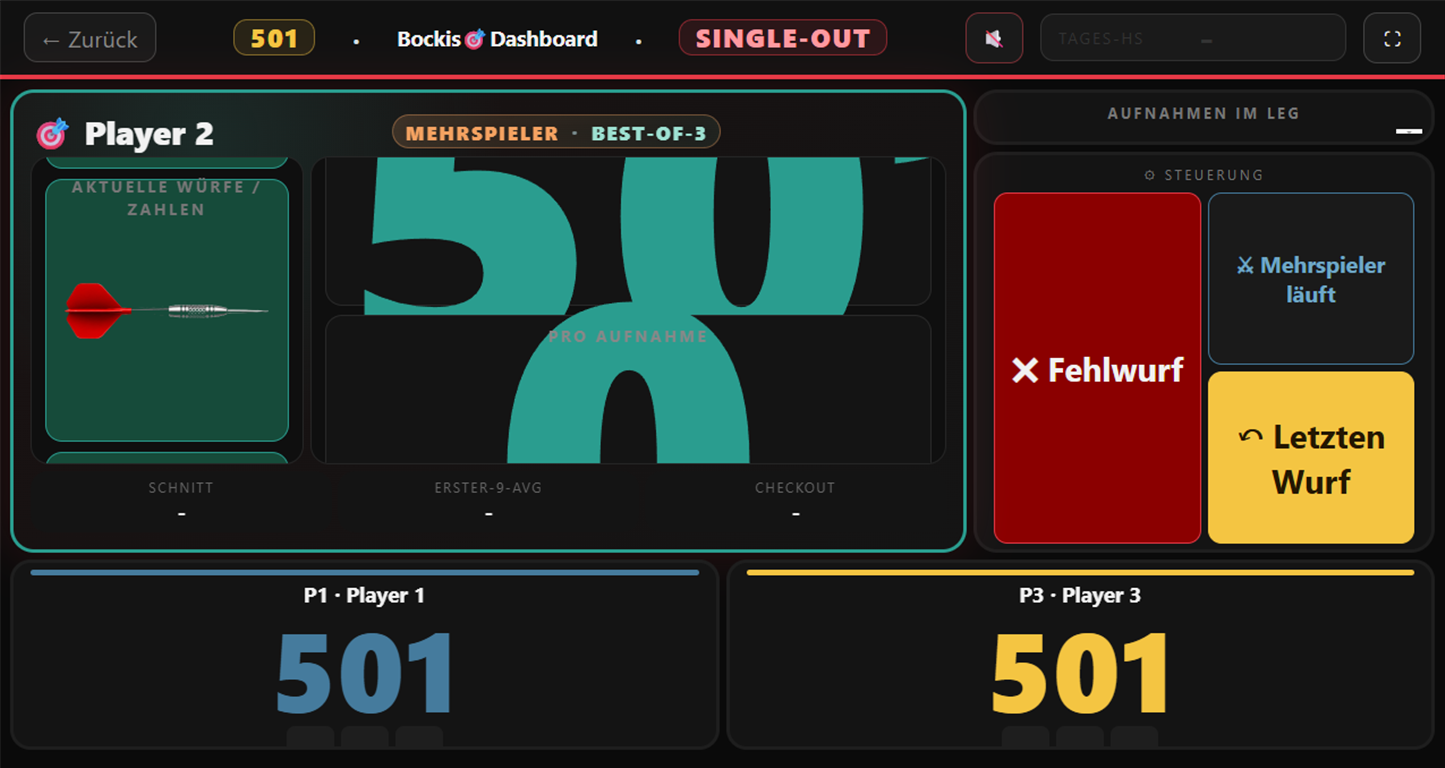
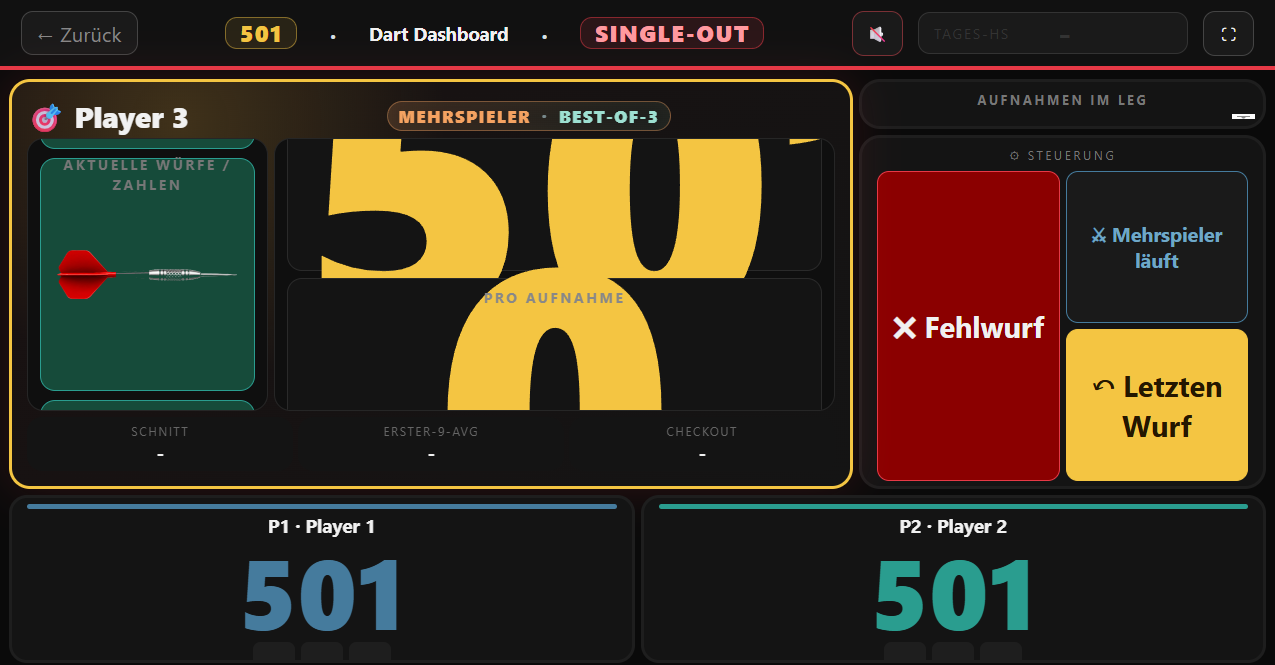
fix: aktualisiere Server-IP Platzhalter in der Konfiguration und README

diff --git a/README.md b/README.md
@@ -74,7 +74,7 @@ Das Dashboard funktioniert auch ohne angeschlossenen Arduino. In diesem Fall wir
 | Statistiken | <http://localhost:3100/panels/statistics.html> |
 | Fire-TV-Dashboard | <http://localhost:3200/panels/firetv-dashboard.html> |
 
-Für andere Geräte im Heimnetz wird `localhost` durch die IP-Adresse des Dashboard-Servers ersetzt, zum Beispiel `http://192.168.8.111:3100`.
+Für andere Geräte im Heimnetz wird `localhost` durch die IP-Adresse des Dashboard-Servers ersetzt, zum Beispiel `http://DEINE-SERVER-IP:3100`.
 
 ## Konfiguration
 
